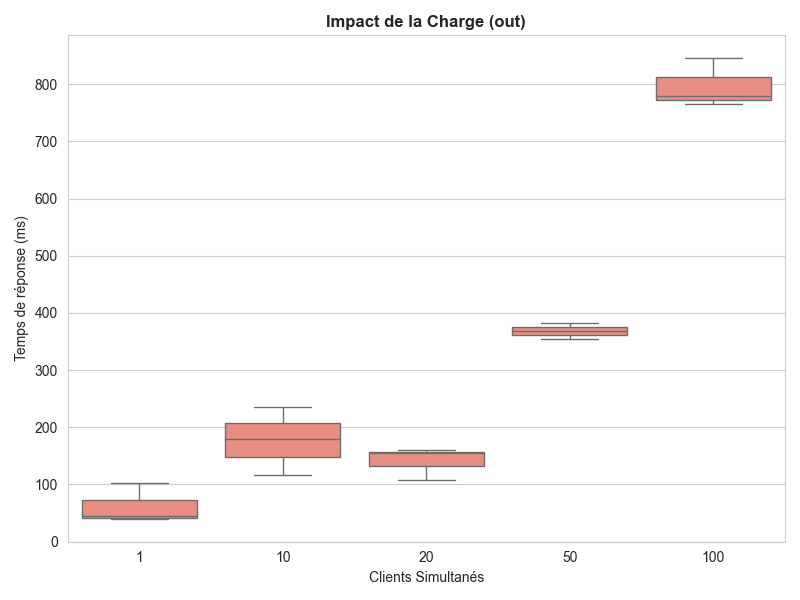
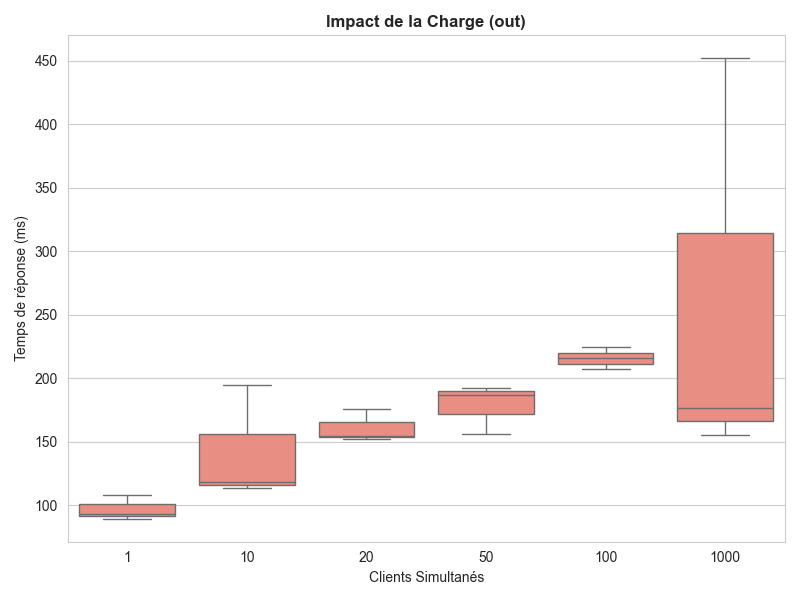
scripts finaux, READme et plots

diff --git a/Scripts/bench_conc.py b/Scripts/bench_conc.py
@@ -1,98 +1,100 @@
 import subprocess
 import csv
-import re
 import time
 import argparse
-import threading
+import requests
 from concurrent.futures import ThreadPoolExecutor, as_completed
 
 # --- CONFIGURATION ---
 BASE_URL = "https://massive-gcp-473713.ew.r.appspot.com/api/timeline"
 OUTPUT_FILE = "out/conc.csv"
-PARAMS = [1, 10, 20, 50, 100, 1000]
 
+# Niveaux de concurrence à tester
+PARAMS = [1, 10, 20, 50, 100, 1000] 
+NB_USERS_DB = 1000
+NB_POSTS_PER_USER = 50
+NB_FOLLOWS = 20
 
-def run(num_users: int):
-    """Run concurrence tests: for each c in PARAMS launch min(c, num_users)
-    ab instances in parallel (each does a single request). This makes the
-    total concurrent requests equal to c when enough users are available.
-    """
+def run_cmd(cmd):
+    print(f"[CMD] {cmd}")
+    subprocess.run(cmd, shell=True, check=True)
+
+def benchmark_request(user_idx):
+    url = f"{BASE_URL}?user=user{user_idx}"
+    try:
+        start_time = time.time()
+        response = requests.get(url, timeout=10)
+        end_time = time.time()
+
+        if response.status_code >= 400:
+            return (0, 1)
+        
+        duration_ms = (end_time - start_time) * 1000
+        return (duration_ms, 0)
+
+    except requests.RequestException:
+        return (0, 1)
+
+def run():
+    # 1. INITIALISATION DES DONNÉES
+    print("\n--- INITIALISATION : Préparation de la base pour le test de charge ---")
+    try:
+        run_cmd("python3 clean.py")
+        
+        total_posts = NB_USERS_DB * NB_POSTS_PER_USER
+        print(f"-> Création de {NB_USERS_DB} users, {total_posts} posts, {NB_FOLLOWS} follows/user...")
+        
+        run_cmd(f"python3 seed.py --users {NB_USERS_DB} "
+                f"--posts {total_posts} "
+                f"--follows-min {NB_FOLLOWS} --follows-max {NB_FOLLOWS}")
+        print("-> Base prête.")
+    except Exception as e:
+        print(f"-> Erreur critique init: {e}")
+        return
+
+    # 2. BOUCLE DE TEST DE CHARGE
     with open(OUTPUT_FILE, 'w', newline='') as f:
         writer = csv.writer(f)
         writer.writerow(["PARAM", "AVG_TIME", "RUN", "FAILED"])
-        print_lock = threading.Lock()
 
         for concurrency in PARAMS:
             c = concurrency
-            target_count = min(c, num_users)
-            if target_count < c:
-                with print_lock:
-                    print(f"[WARN] --users={num_users} < requested concurrency {c}. "
-                          f"Seuls {target_count} users seront lancés (parallélisme total = {target_count}).")
-
-            with print_lock:
-                print(f"\n--- Test Concurrence: {c} (instances simultanées: {target_count}) ---")
+            target_count = min(c, NB_USERS_DB)
+            
+            print(f"\n--- Test Concurrence: {c} (Threads actifs: {target_count}) ---")
 
             for run_id in range(1, 4):
-                with print_lock:
-                    print(f"  Run {run_id}/3 pour concurrency={c}")
-
-                def ab_one(user_idx: int):
-                    target_url = f"{BASE_URL}?user=user{user_idx}"
-                    cmd = f"ab -k -c 1 -n 1 -t 5 \"{target_url}\""
-                    try:
-                        res = subprocess.run(cmd, shell=True, capture_output=True, text=True)
-                        output = (res.stdout or "") + "\n" + (res.stderr or "")
-                        match = re.search(r"Time per request:\s+([0-9\.]+)\s+\[ms\]\s+\(mean\)", output)
-                        if match:
-                            return (int(float(match.group(1))), 0)
-                        else:
-                            with print_lock:
-                                print(f"[ab failed] cmd={cmd}\noutput=\n{output}")
-                            return (0, 1)
-                    except Exception as e:
-                        with print_lock:
-                            print(f"Erreur instance user{user_idx}: {e}")
-                        return (0, 1)
-
                 times = []
-                failed = 0
+                failed_count = 0
 
-                if target_count == 0:
-                    with print_lock:
-                        print("Aucun user disponible pour ce niveau de concurrence, on passe.")
-                    writer.writerow([c, "0ms", run_id, target_count])
-                    continue
-
-                with ThreadPoolExecutor(max_workers=target_count) as ex:
-                    futures = {ex.submit(ab_one, uid): uid for uid in range(1, target_count + 1)}
-                    for fut in as_completed(futures):
-                        t, err = fut.result()
-                        if err:
-                            failed += 1
+                # Lancement des requêtes en parallèle
+                with ThreadPoolExecutor(max_workers=target_count) as executor:
+                    futures = {executor.submit(benchmark_request, uid): uid for uid in range(1, target_count + 1)}
+                    
+                    for future in as_completed(futures):
+                        t_ms, is_failed = future.result()
+                        if is_failed:
+                            failed_count += 1
                         else:
-                            times.append(t)
+                            times.append(t_ms)
 
-                avg_time = f"{int(sum(times)/len(times))}ms" if times else "0ms"
-                with print_lock:
-                    if failed > 1 :
-                        failed = 1
-                    print(f"   Run {run_id}: {avg_time} | Failed: {failed}")
-                writer.writerow([c, avg_time, run_id, failed])
+                # Calcul des statistiques
+                if times:
+                    avg_val = sum(times) / len(times)
+                    avg_time_str = f"{avg_val:.2f}"
+                else:
+                    avg_time_str = "0"
+                
+                # Gestion de l'échec global du run
+                is_run_failed = 1 if failed_count > 0 else 0
+                
+                print(f"   Run {run_id}: {avg_time_str} ms | Fail: {failed_count}/{target_count}")
+                writer.writerow([c, avg_time_str, run_id, is_run_failed])
                 f.flush()
-                time.sleep(1)
+                
+                time.sleep(2)
 
-
-def parse_args():
-    p = argparse.ArgumentParser(description='Bench concurrence (ab) for multiple users')
-    p.add_argument('-u', '--users', type=int, default=None, help='Nombre d\'utilisateurs disponibles (user1..userN). Par défaut = max(PARAMS)')
-    return p.parse_args()
-
+    print("\n--- Benchmark Concurrence Terminé ---")
 
 if __name__ == '__main__':
-    args = parse_args()
-    users = args.users if args.users is not None else max(PARAMS)
-    if users < 1:
-        print("Le nombre d'utilisateurs doit être >= 1")
-    else:
-        run(users)
+    run()

diff --git a/Scripts/bench_post.py b/Scripts/bench_post.py
@@ -9,25 +9,19 @@ from concurrent.futures import ThreadPoolExecutor, as_completed
 BASE_URL = "https://massive-gcp-473713.ew.r.appspot.com/api/timeline"
 OUTPUT_FILE = "out/post.csv"
 
-# Séquence demandée : 10 -> 100 -> 1000 
 POSTS_STEPS = [10, 100, 1000] 
 NB_USERS = 1000
 FOLLOWERS = 20
-CONCURRENCY = 50              # 50 threads simultans
+CONCURRENCY = 50
 
 def run_cmd(cmd):
-    """Exécute une commande shell (pour le seed/clean uniquement)."""
     subprocess.run(cmd, shell=True, check=True)
 
 def benchmark_request(user_idx):
-    """
-    Exécute une requête HTTP nativement en Python.
-    Retourne (temps_ms, est_echec).
-    """
     url = f"{BASE_URL}?user=user{user_idx}"
     try:
         start_time = time.time()
-        # Timeout de 5 minutes similaire à votre option -t 300 dans ab
+        # Timeout de 5 minutes
         response = requests.get(url, timeout=300)
         end_time = time.time()
 
@@ -49,7 +43,7 @@ def run():
         
         current_posts_per_user = 0
         
-        # 1. Nettoyage initial
+        #Nettoyage initial
         print("\n--- INITIALISATION : Nettoyage complet de la base ---")
         try:
             run_cmd("python3 clean.py")
@@ -58,7 +52,6 @@ def run():
             return
 
         for target_posts in sorted_steps:
-            # 2. SEED INCREMENTAL
             posts_needed_per_user = target_posts - current_posts_per_user
             
             if posts_needed_per_user > 0:
@@ -71,7 +64,7 @@ def run():
                 run_cmd(cmd_seed)
                 current_posts_per_user = target_posts
             
-            # 3. BENCHMARK PYTHON REQUESTS
+            # BENCHMARK PYTHON REQUESTS
             print(f"-> Benchmark {target_posts} Posts/User (Threads: {CONCURRENCY})")
             
             for run_id in range(1, 4):

diff --git a/Scripts/bench_fanout.py b/Scripts/bench_fanout.py
@@ -9,22 +9,16 @@ BASE_URL = "https://massive-gcp-473713.ew.r.appspot.com/api/timeline"
 OUTPUT_FILE = "out/fanout.csv"
 
 # Paramètres du test
-FOLLOWS_STEPS = [10, 50, 100]  # On fait varier les followers
+FOLLOWS_STEPS = [10, 50, 100]
 FIXED_POSTS_PER_USER = 100     
 NB_USERS = 1000
-CONCURRENCY = 50               # 50 threads simultanés
+CONCURRENCY = 50
 
 def run_cmd(cmd):
-    """Exécute une commande shell (pour le seed/clean)."""
-    # astuce : ajouter print pour voir ce qu'il se passe
     print(f"[CMD] {cmd}")
     subprocess.run(cmd, shell=True, check=True)
 
 def benchmark_request(user_idx):
-    """
-    Exécute une requête HTTP nativement en Python.
-    Retourne (temps_ms, est_echec).
-    """
     url = f"{BASE_URL}?user=user{user_idx}"
     try:
         start_time = time.time()
@@ -50,7 +44,7 @@ def run():
         
         current_follows = 0
         
-        # 1. NETTOYAGE & INITIALISATION MASSIVE DES POSTS
+        # 1. NETTOYAGE & INITIALISATION
         print("\n--- INITIALISATION : Clean + Génération de tous les Posts ---")
         try:
             run_cmd("python3 clean.py")
@@ -59,7 +53,6 @@ def run():
             print(f"-> Création de {NB_USERS} users et {total_posts} posts...")
             print("-> (Si seed.py utilise le Batch, cela prendra ~10-30 secondes)")
             
-            # On initialise avec 0 followers
             run_cmd(f"python3 seed.py --users {NB_USERS} --posts {total_posts} --follows-min 0 --follows-max 0")
             print("-> Base initialisée avec succès.")
             

diff --git a/README.md b/README.md
@@ -25,3 +25,12 @@ Benchmark de l'application Massive GCP : génération de fichiers CSV et visuali
 
 ## Les Plots
 
+![image](plots\plot_out_1.png)
+![image](plots\plot_out_2.png)
+![image](plots\plot_out_3.png)
+
+
+## Remarques
+- Concurrency : On peut remarquer que le temps n'augmente pas linéairement avec le nombre d'utilisateurs, on voit bien qu'il n'y a pas d'explosion de temps de réponse entre 100 et 1000 utilisateurs simultanés. On peut quand meme se demandé si le cache n'influe pas sur les résultats.
+- Fanout : Pour les followers on remarque pendant la premiere lancement une grosse différence avec le reste des résultats avec 548.02ms puis GCP a du mettre en cache ou allouer plus de ressources car les autres sont entre 15Oms et 200ms meme si on augmente le nombre de followers.
+- Posts : Comme fanout on remarque que le premiere lancement est plus long que les autres cependant on peut voir que ce schéma ce repète a chaque changement de paramètre (10,100,1000). On peut supposer que GCP réalloue des ressources a chaque fois apres un pic de charge.
